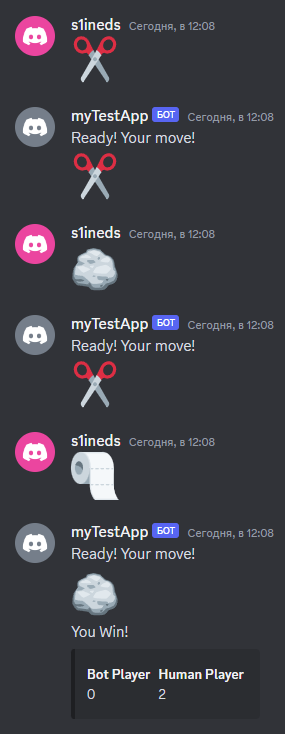
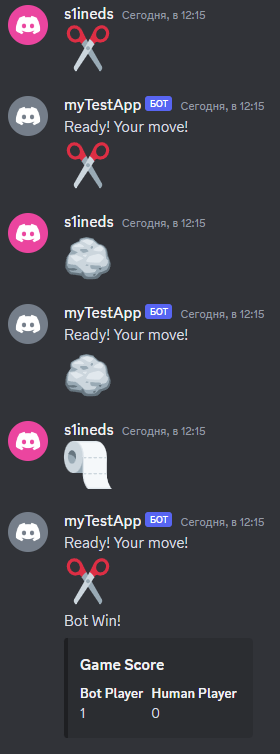
add screenshot

diff --git a/structs/DBot.go b/structs/DBot.go
@@ -395,7 +395,7 @@ func (d *DBot) generateForecastMessage() []*discordgo.MessageEmbed {
 func (d *DBot) generateGameScoreMessage(bot, human int) *discordgo.MessageEmbed {
 	embed := discordgo.MessageEmbed{
 		Type:  discordgo.EmbedTypeRich,
-		Title: messageObject.Name,
+		Title: "Game Score",
 		Fields: []*discordgo.MessageEmbedField{
 			{
 				Name:   "Bot Player",
